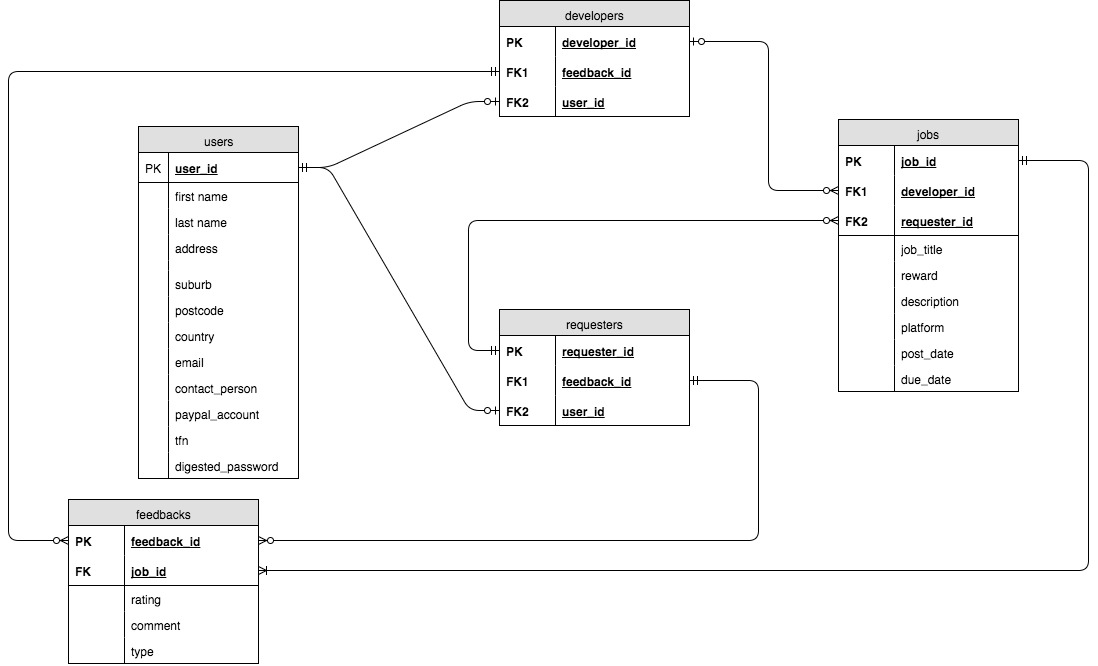
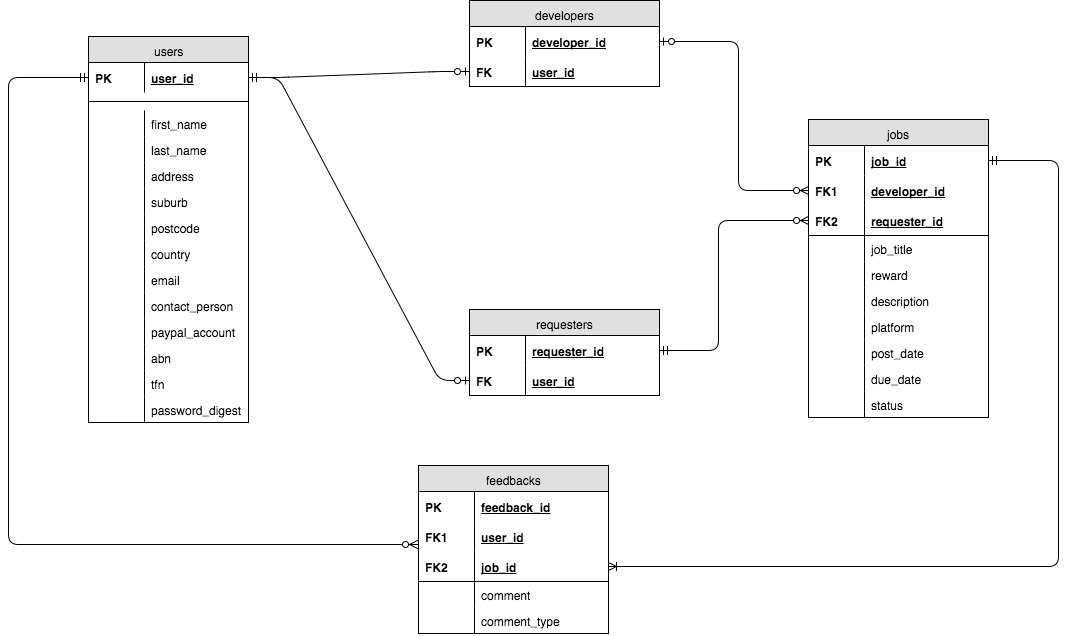
Finished main function

diff --git a/busy-bee-app/main.rb b/busy-bee-app/main.rb
@@ -1,6 +1,6 @@
-require "pry"
+# require "pry"
 require "sinatra"
-require "sinatra/reloader"
+# require "sinatra/reloader"
 require "pg"
 require "pony"
 require_relative "database_config"
@@ -10,6 +10,8 @@ require_relative "models/jobs"
 require_relative "models/requesters"
 require_relative "models/users"
 
+set :raise_errors, false
+set :show_exceptions, false
 enable :sessions
 
 helpers do
@@ -94,6 +96,16 @@ get '/request' do
   erb :request
 end
 
+#requester
+#requester details
+get '/:id/requester' do
+    @job = Job.find(params[:id])
+    @requester = @job.requester
+    @user_requester = @requester.user
+    @feedbacks = @job.feedbacks
+    erb :requester_details
+end
+
 #New request
 get '/request/new' do
   if current_requester == nil
@@ -172,6 +184,16 @@ post '/:id/feedback/new' do
 end
 
 #developers
+#developer details
+get '/:id/developer' do
+    @job = Job.find(params[:id])
+    @developer = @job.developer
+    @user_developer = @developer.user
+    @feedbacks = @job.feedbacks
+    erb :developer_details
+end
+
+#developer page
 get '/develop' do
   if current_developer == nil
     new_developer = Developer.new

diff --git a/busy-bee-app/database_config.rb b/busy-bee-app/database_config.rb
@@ -5,4 +5,4 @@ options = {
   database: 'busy_bee_db',
 }
 
-ActiveRecord::Base.establish_connection(options)
+ActiveRecord::Base.establish_connection( ENV['DATABASE_URL'] || options)

diff --git a/busy-bee-app/models/users.rb b/busy-bee-app/models/users.rb
@@ -2,4 +2,5 @@ class User < ActiveRecord::Base
   has_secure_password
   belongs_to :developer
   belongs_to :requester
+  has_many :feedbacks
 end

diff --git a/busy-bee-app/models/feedbacks.rb b/busy-bee-app/models/feedbacks.rb
@@ -1,5 +1,4 @@
 class Feedback < ActiveRecord::Base
-  belongs_to :developer
-  belongs_to :requester
+  belongs_to :user
   belongs_to :job
 end

diff --git a/busy-bee-app/models/developers.rb b/busy-bee-app/models/developers.rb
@@ -1,5 +1,4 @@
 class Developer < ActiveRecord::Base
   belongs_to :user
   has_many :jobs
-  has_many :feedbacks
 end

diff --git a/busy-bee-app/models/requesters.rb b/busy-bee-app/models/requesters.rb
@@ -1,5 +1,4 @@
 class Requester < ActiveRecord::Base
   belongs_to :user
   has_many :jobs
-  has_many :feedbacks
 end

diff --git a/busy-bee-app/readme.md b/busy-bee-app/readme.md
@@ -1,0 +1,36 @@
+# Project 2: Busy Bee
+
+### Technology Used
+* Ruby
+* Sinatra
+* Postgresql
+* Pony
+* ActiveRecord
+* Bcrypt
+
+### Approach
+
+I choose to follow the best practice of doing the documentation and planning at the beginning . First of all, I tried to create a schema and wireframes to aid in development. Second, the database schema then translated into Postgresql tables with relationships notated in ActiveRecord. Third, the coding process was divided into four parts such as developer, requester, jobs and feedbacks. Last but not least, the features for each part also added during development to make it more user friendly.
+
+### What I Learned
+
+Ruby Sinatra could create cleaner web address but it also prone to bugs.
+
+### Unsolved Problems
+
+The current version have several not yet solved problems which are:
+* Mobile friendliness
+* CSS styling
+
+
+### To-Do-List
+
+* Media adaptability
+* Further styling
+
+### Future Features
+
+* Project reminder
+* Payment page
+
+[visit page]()
